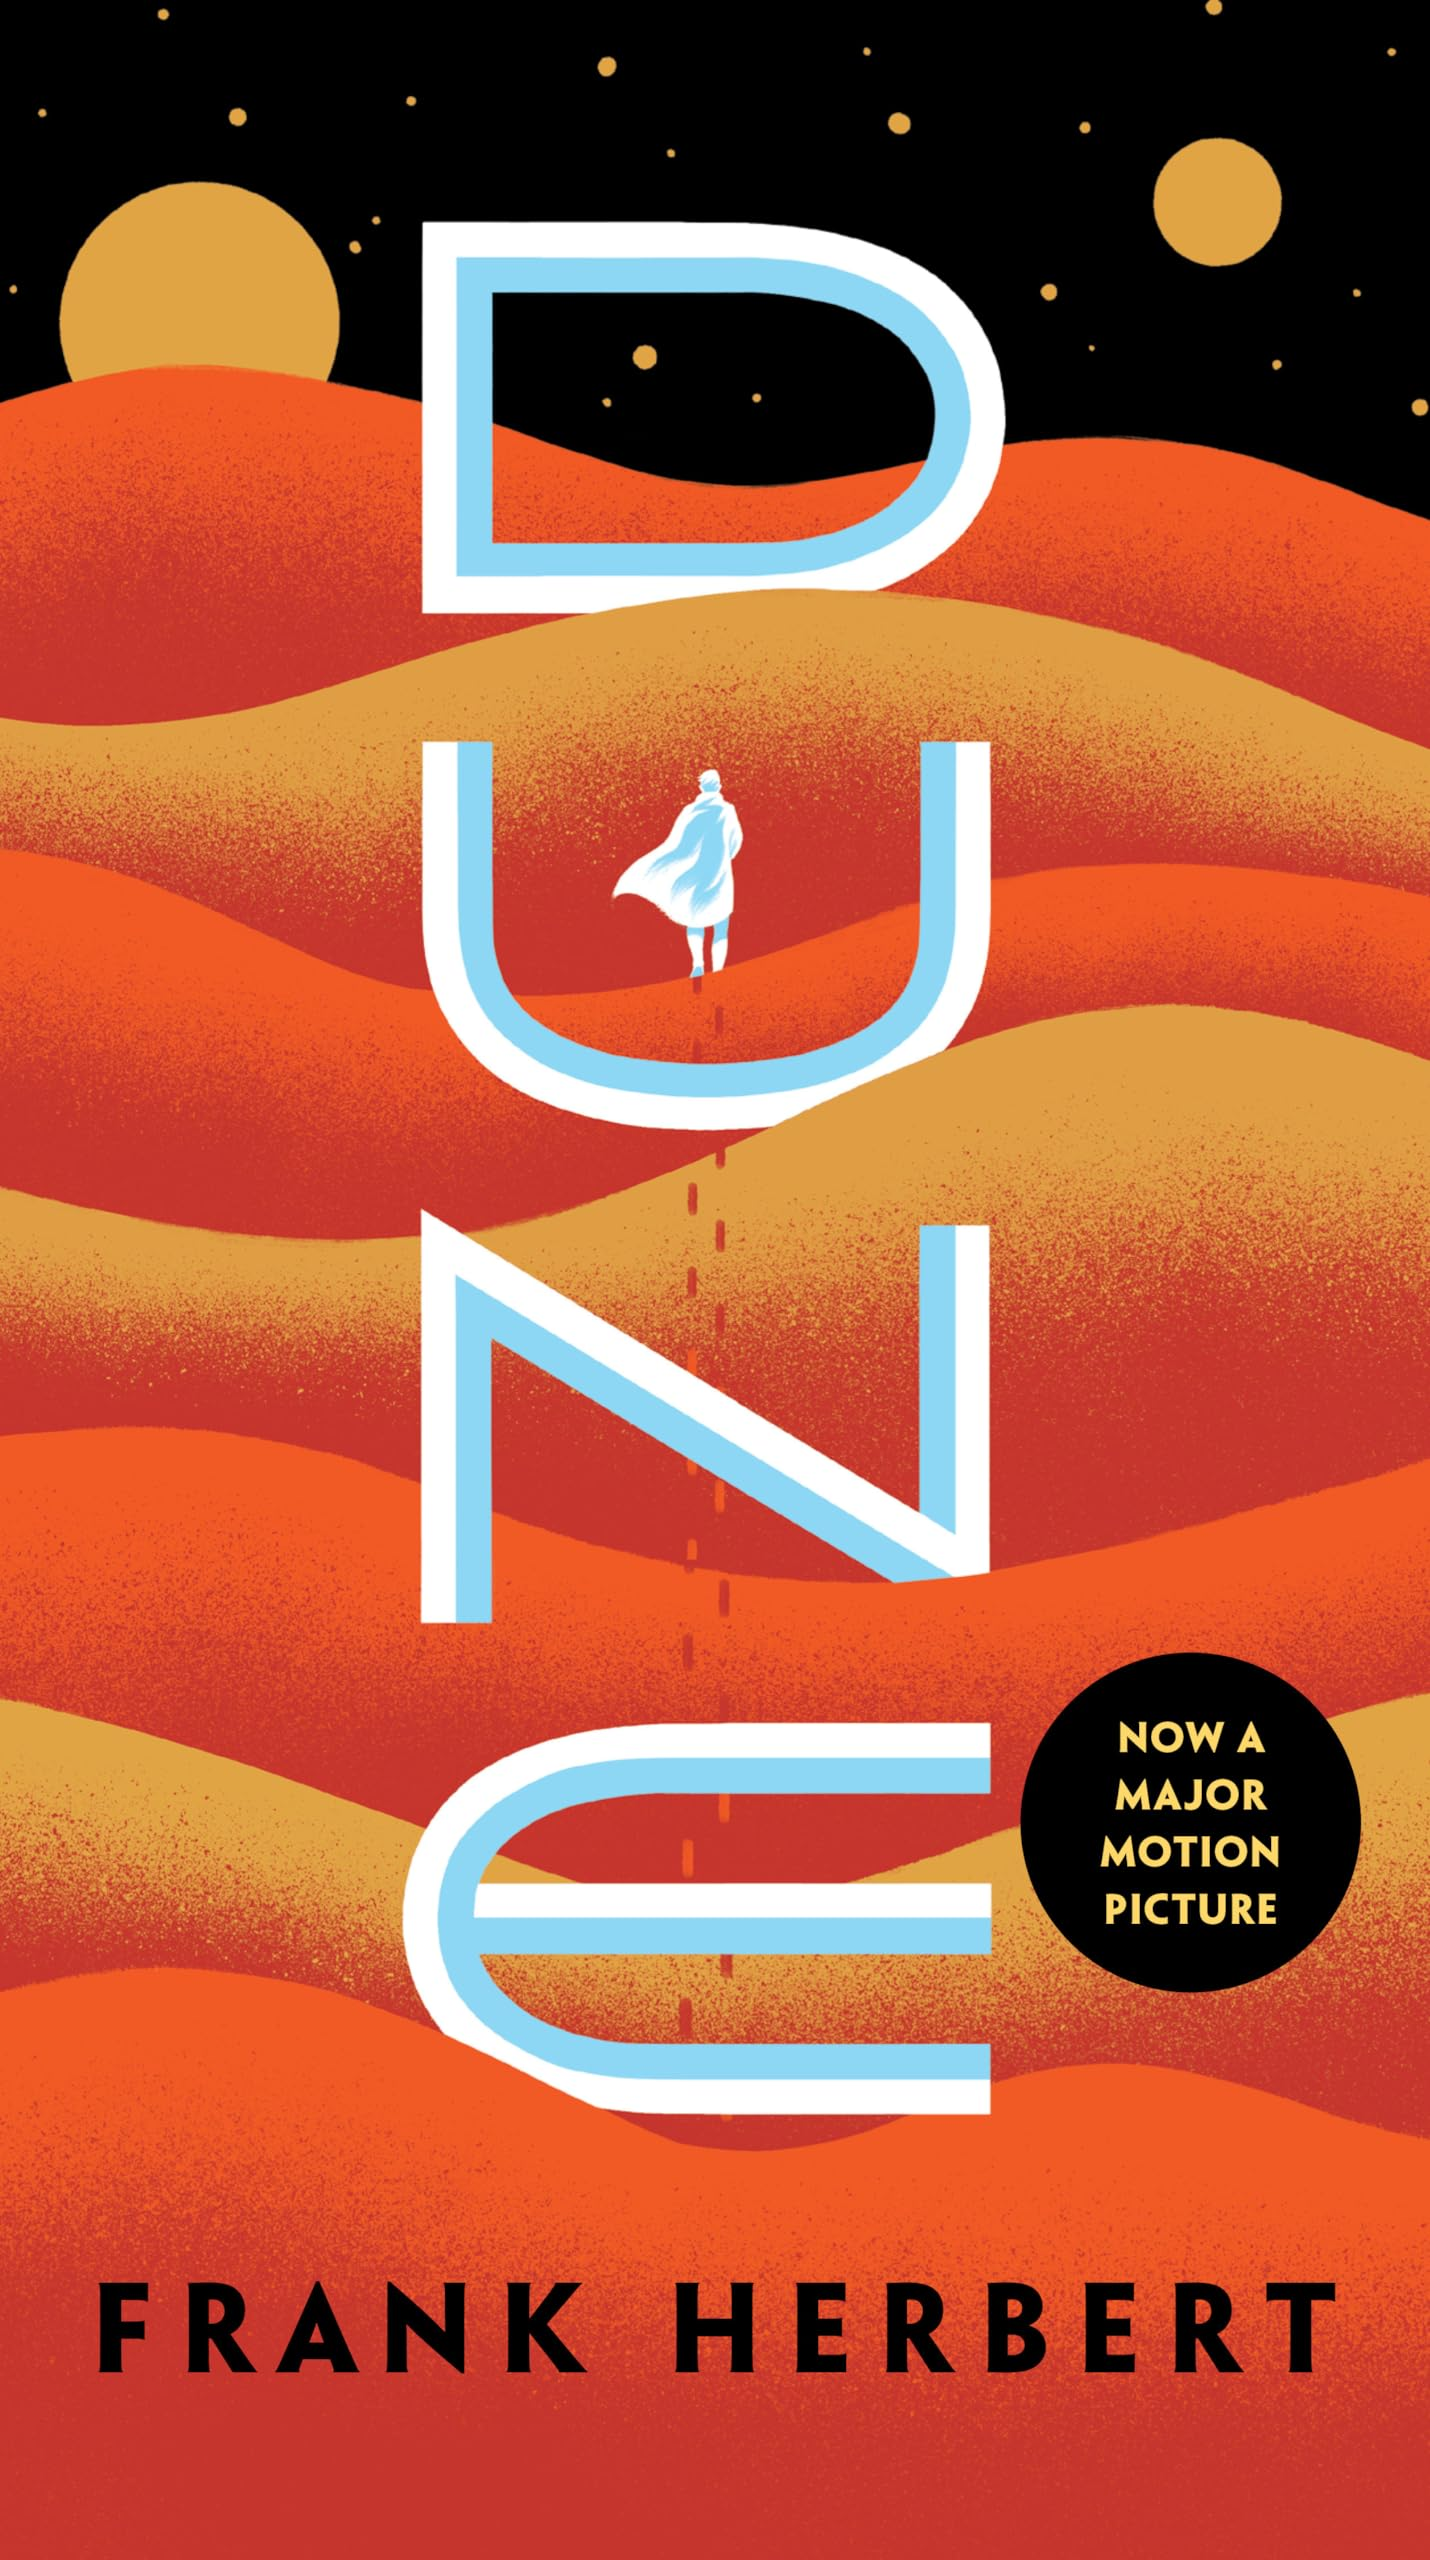
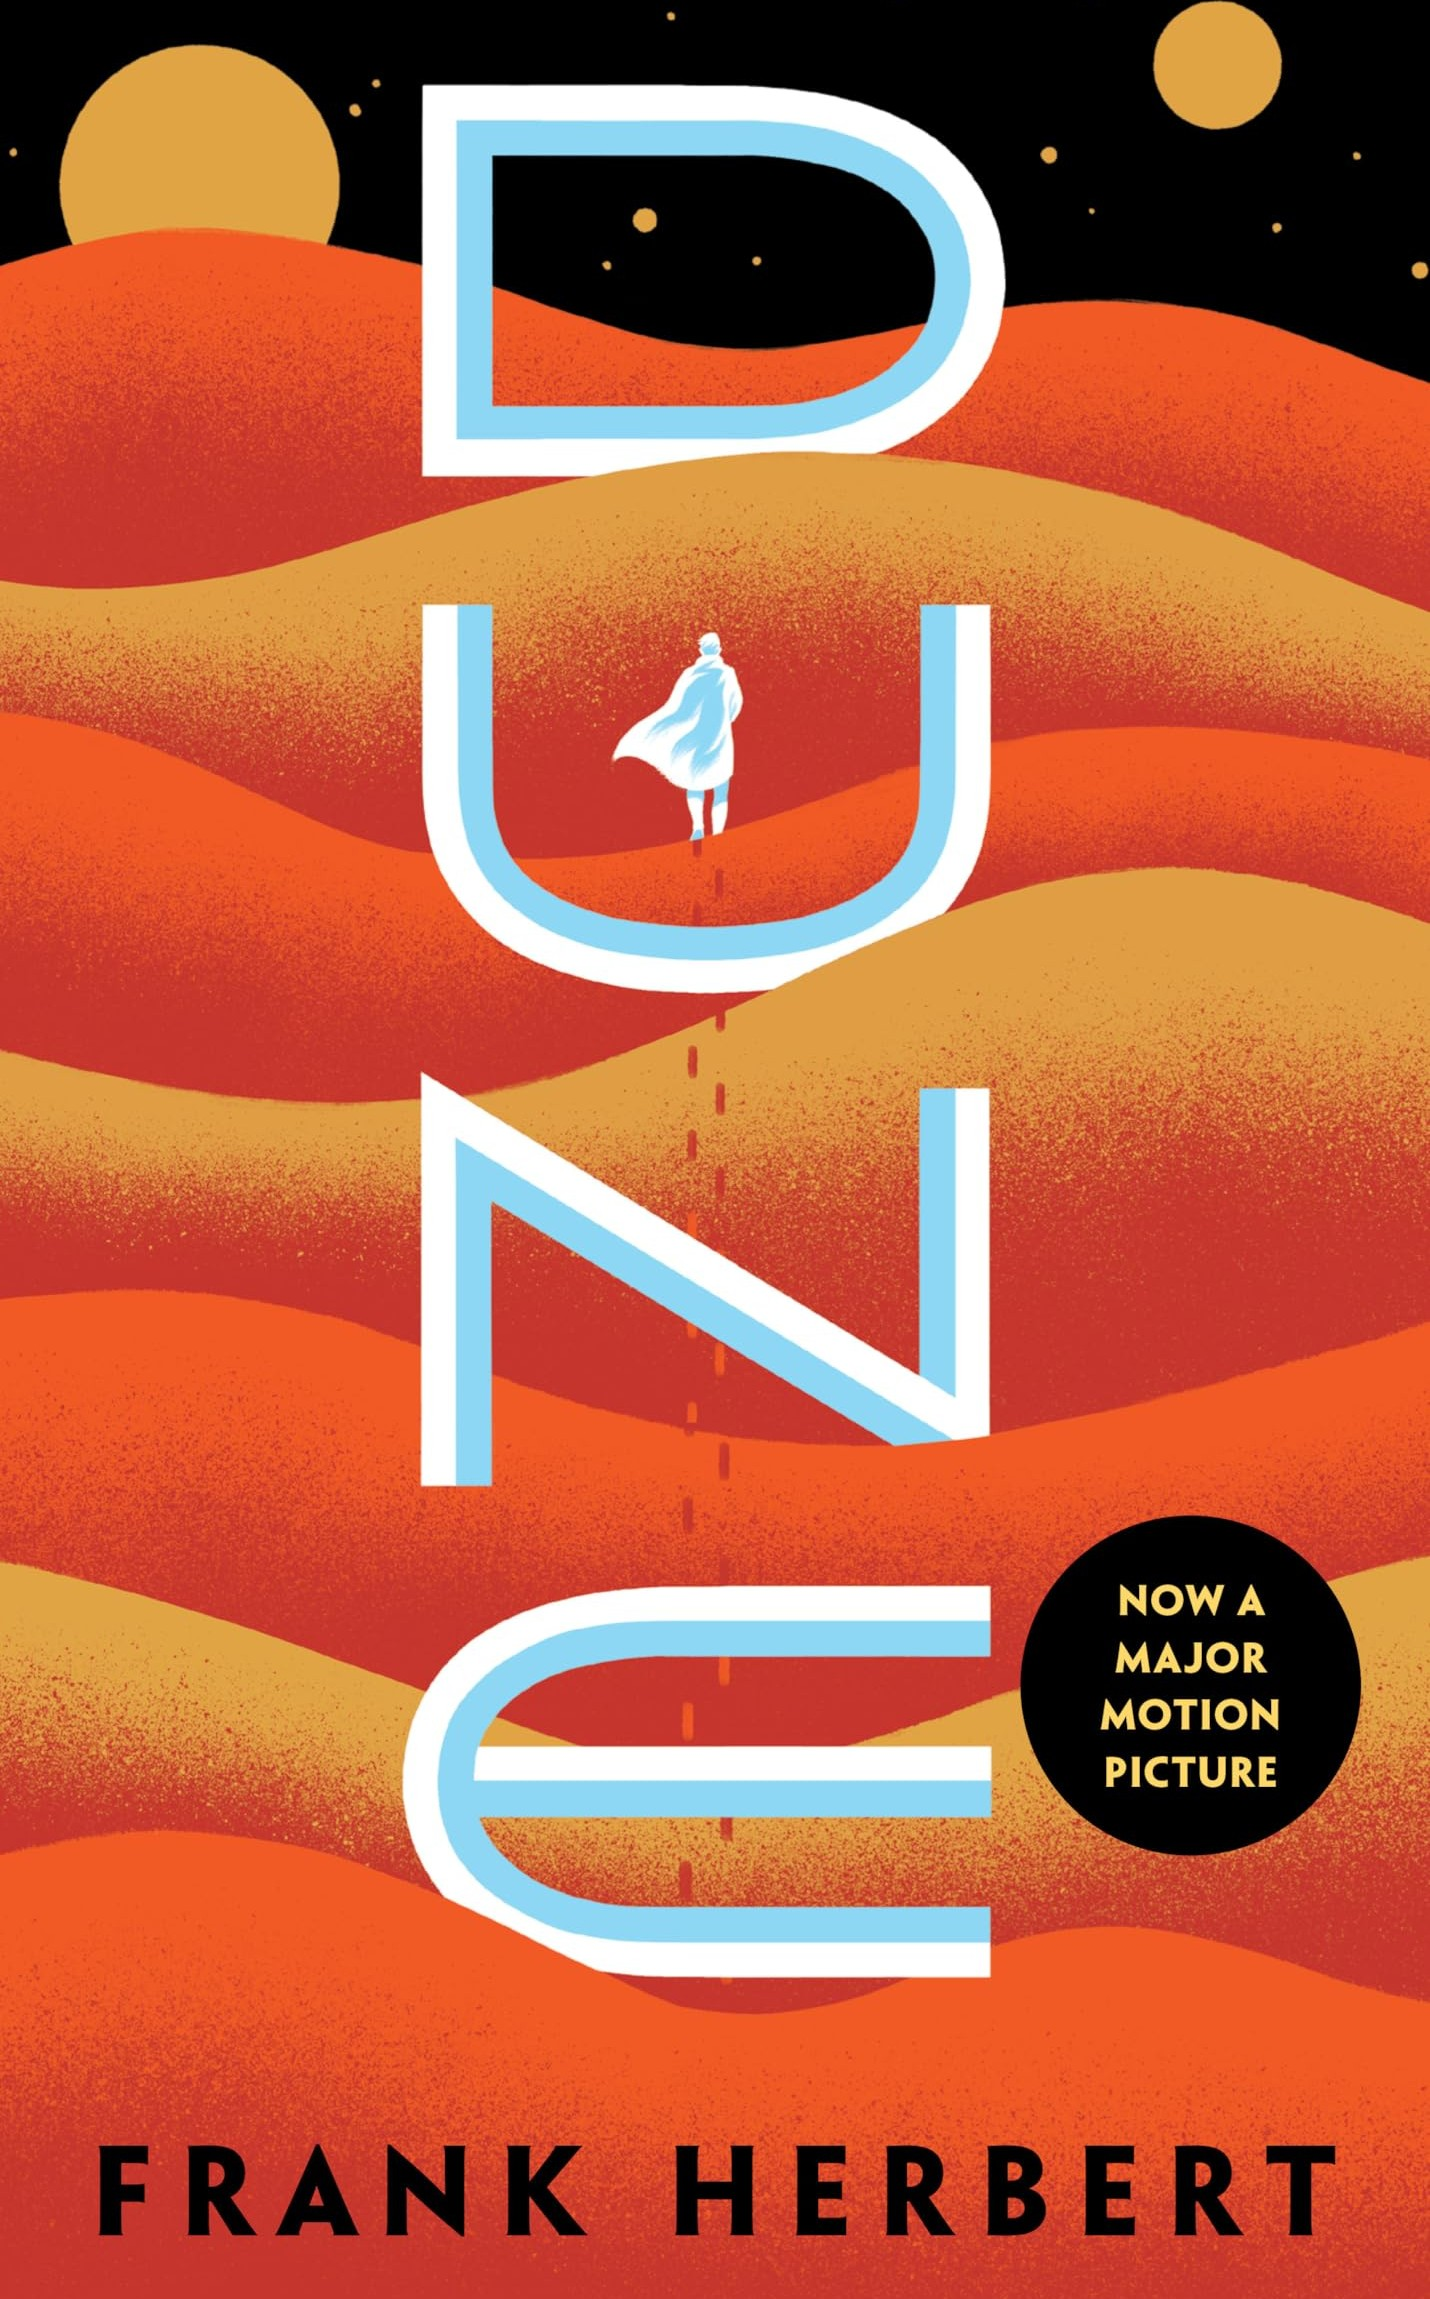
book images modified to match the size of other book covers

diff --git a/src/components/Products.css b/src/components/Products.css
@@ -61,7 +61,11 @@
     font-size: 15px;
 }
 
-.product > .section > .books > .book > p:nth-child(2){
+.product > .section > .books > .book > p:nth-child(4){
     font-weight: bold;
-    font-size: 20px;
+    font-size: 18px;
+}
+
+.product > .section > .books > .book > button{
+    padding: 3% 5% 3% 5%;
 }
